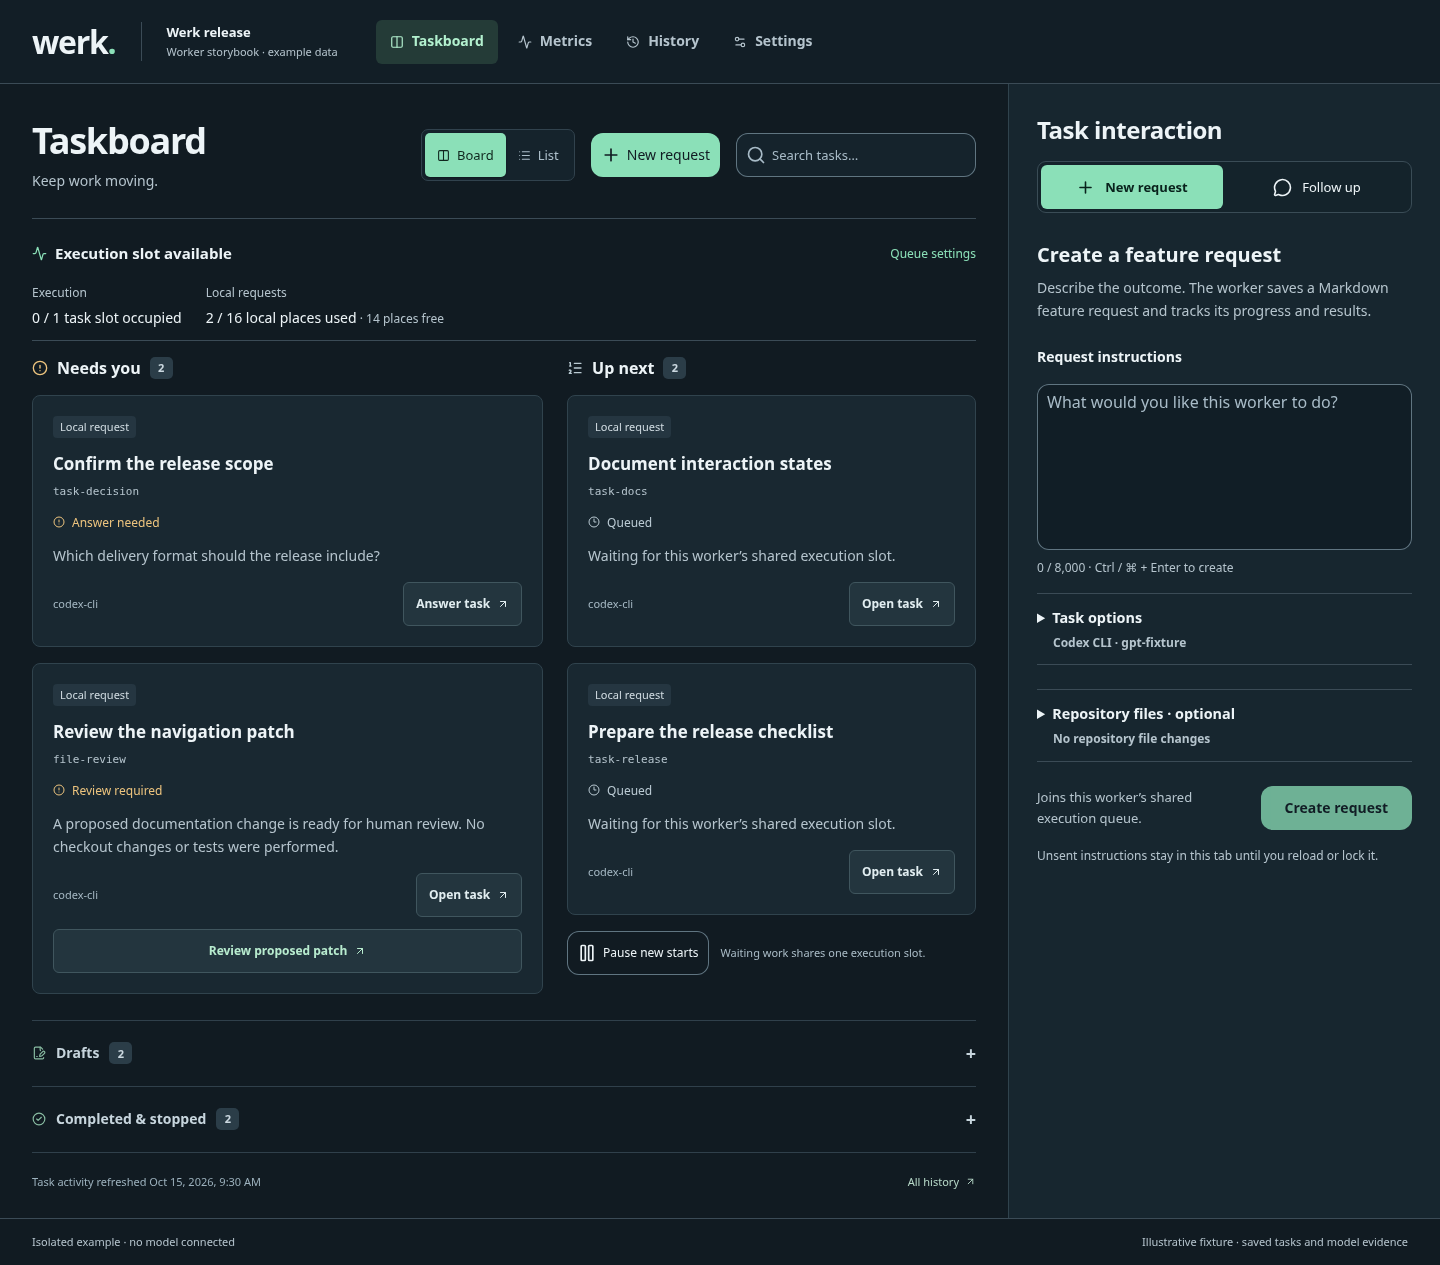
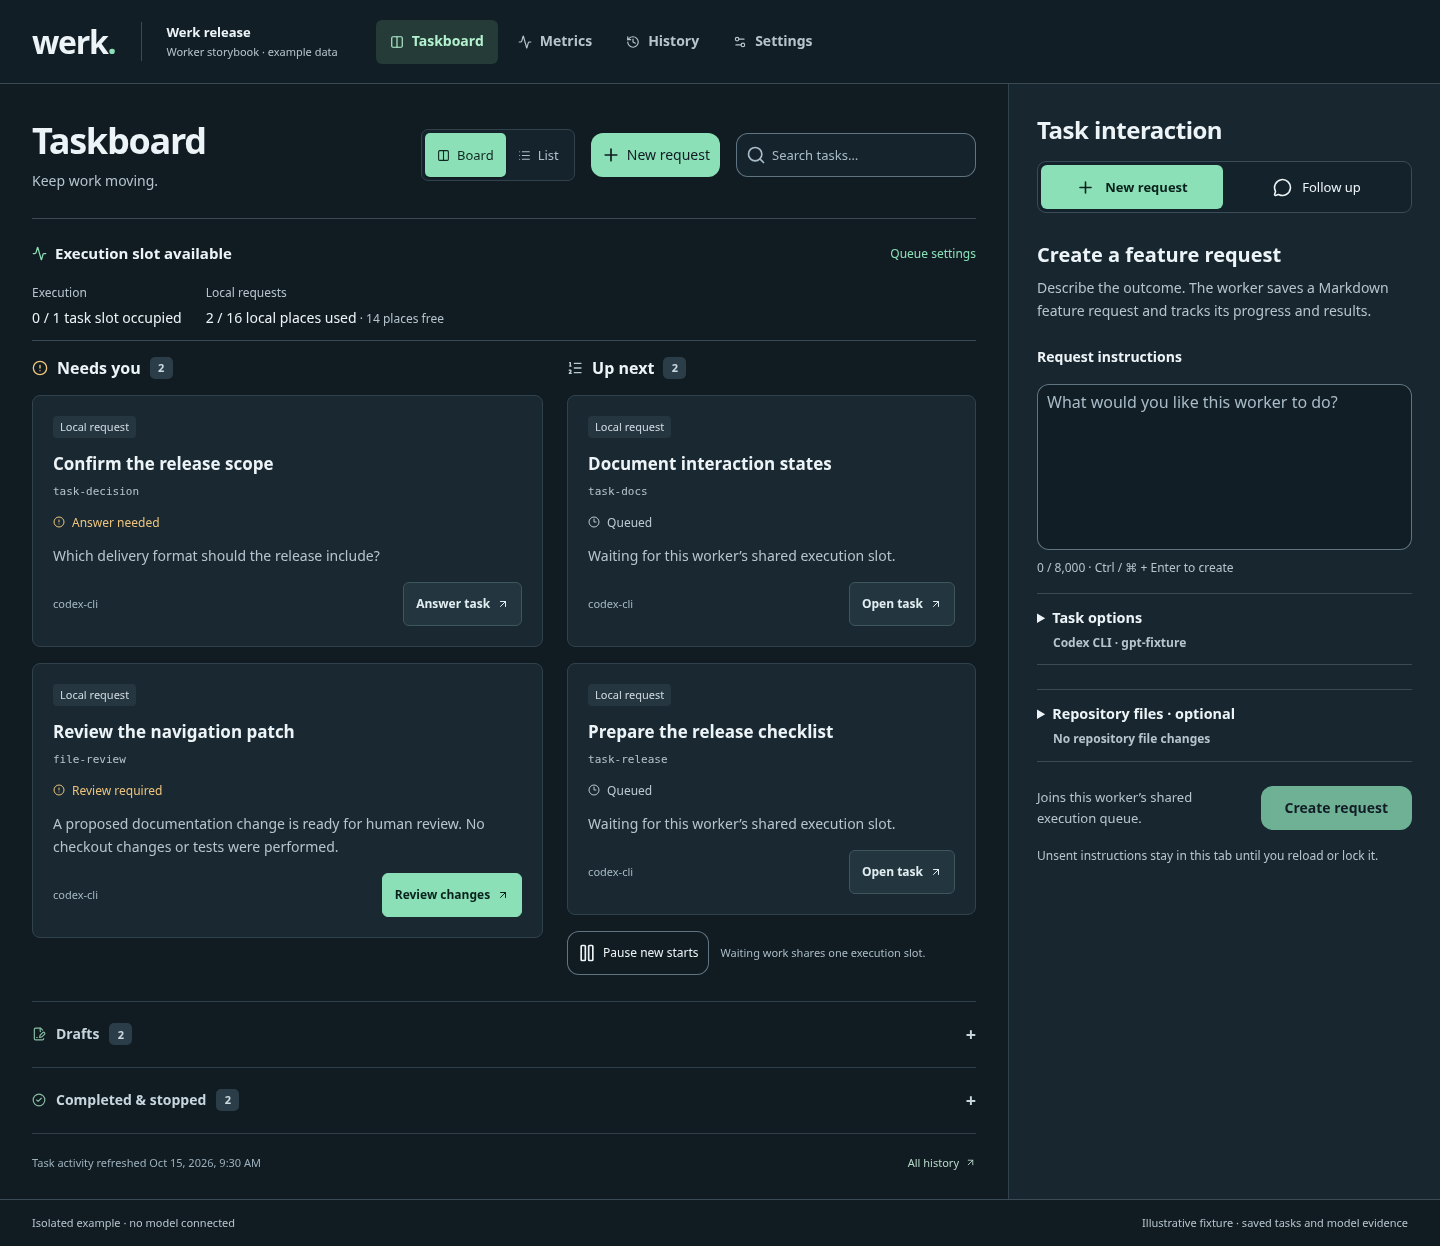
docs: refresh generated README screenshots and provenance

diff --git a/projects/werk/docs/evidence/readme/README.md b/projects/werk/docs/evidence/readme/README.md
@@ -1,41 +1,22 @@
 # README screenshots
 
-Captured on 2026-10-18 from Werk's actual Vue components in the qualified
-Storybook build for commit `4f3a2ef356cd786ac0506fccf832f28b81e1f387`.
-These are browser captures with deterministic sample data, not design mockups.
-No provider was invoked, real account inspected, or Git publication performed.
-The sample-data labels remain visible in the images.
+Generated from the qualified real Vue components for Werk 0.12.0, commit `8aa2f88ddce2b51e2e011ab194fadd848db3d994`.
+Capture: 2026-10-18T13:15:56.947Z. Fixture clock: 2026-10-15T09:30:00.000Z.
 
-| Image | Story ID | Capture |
-| --- | --- | --- |
-| [Worker taskboard](worker-taskboard.png) | `worker-workspace--populated-taskboard` | 1440 × 1000 viewport, full page (1440 × 1265) |
-| [Create a shared request](worker-create-request.png) | `worker-shared-feature-requests--describe-request` | 1000 × 760 viewport, `main` element (760 × 701) |
-| [Worker settings](worker-settings.png) | `worker-workspace--worker-settings` | 1440 × 1000 viewport, full page (1440 × 1275) |
+These browser captures use deterministic **sample data**. They do not establish
+live model execution, real account usage, Git publication or human acceptance.
+No screenshot has been retouched; these are the exact qualified PNG bytes.
 
-The taskboard fixture shows local requests to illustrate capacity, queue and
-attention states. The separate creation fixture shows the shared Git template
-entry point. Settings uses a fictional executable path and explicitly unavailable
-account status. The fixture clock is 2026-10-15 09:30 UTC; those UI timestamps are
-example data rather than the capture time.
+| Image | Story | Viewport | Image size |
+| --- | --- | --- | --- |
+| [Worker taskboard showing capacity and requests grouped by their current state.](worker-taskboard.png) | `worker-workspace--populated-taskboard` | desktop | 1440 × 1246 |
+| [Shared Feature Request authoring in the worker, with request instructions and the Prepare request action.](worker-create-request.png) | `worker-shared-feature-requests--describe-request` | desktop | 1440 × 1000 |
+| [Worker Metrics with current capacity, configured token allowance, resources and execution activity.](worker-metrics.png) | `worker-metrics--active-worker` | desktop | 1440 × 3198 |
+| [Feature Request review with the accepted goal, changed files, required checks and the next human action.](worker-review.png) | `worker-review--verified-candidate` | desktop | 1440 × 3827 |
+| [Worker settings with provider connections and navigation to repositories, tool access and consumption settings.](worker-settings.png) | `worker-workspace--worker-settings` | desktop | 1440 × 1275 |
 
-Source stories:
+[Machine-readable provenance](provenance.json) records source identity and every image hash.
[1 lines of base64/hex data omitted]
 
-- [Worker workspace](../../../storybook/worker.stories.ts)
-- [Shared Feature Request authoring](../../../storybook/worker-feature-authoring.stories.ts)
-
-To refresh after an interface change:
-
-1. Build and qualify the intended source with `npm run storybook:ci`; see
-   [the Storybook guide](../../how-to/generate-storybook.md).
-2. Serve `storybook-static` locally and open
-   `/iframe.html?id=STORY_ID&viewMode=story`, using an ID from the table.
-3. Wait for the story's play function to finish. Keep the fixture labels visible
-   and use the viewport/capture target shown above. Use a browser screenshot;
-   do not retouch the interface or replace its displayed content.
-4. Inspect each image and update this source commit and capture date. Verify
-   both [the project README](../../../README.md) and the repository landing page
-   still describe the visible state accurately.
-
-The captures were checked for browser errors, unexpected network requests and
-horizontal overflow. Screenshots document these example UI states; they do not
-establish successful model execution or shared Git delivery.
+Refresh instructions are maintained in [README generation](https://github.com/Luis85/production-line/blob/8aa2f88ddce2b51e2e011ab194fadd848db3d994/projects/werk/docs/how-to/generate-readme.md).
+Release generation writes separate artifacts and never commits changes to the source branch.
